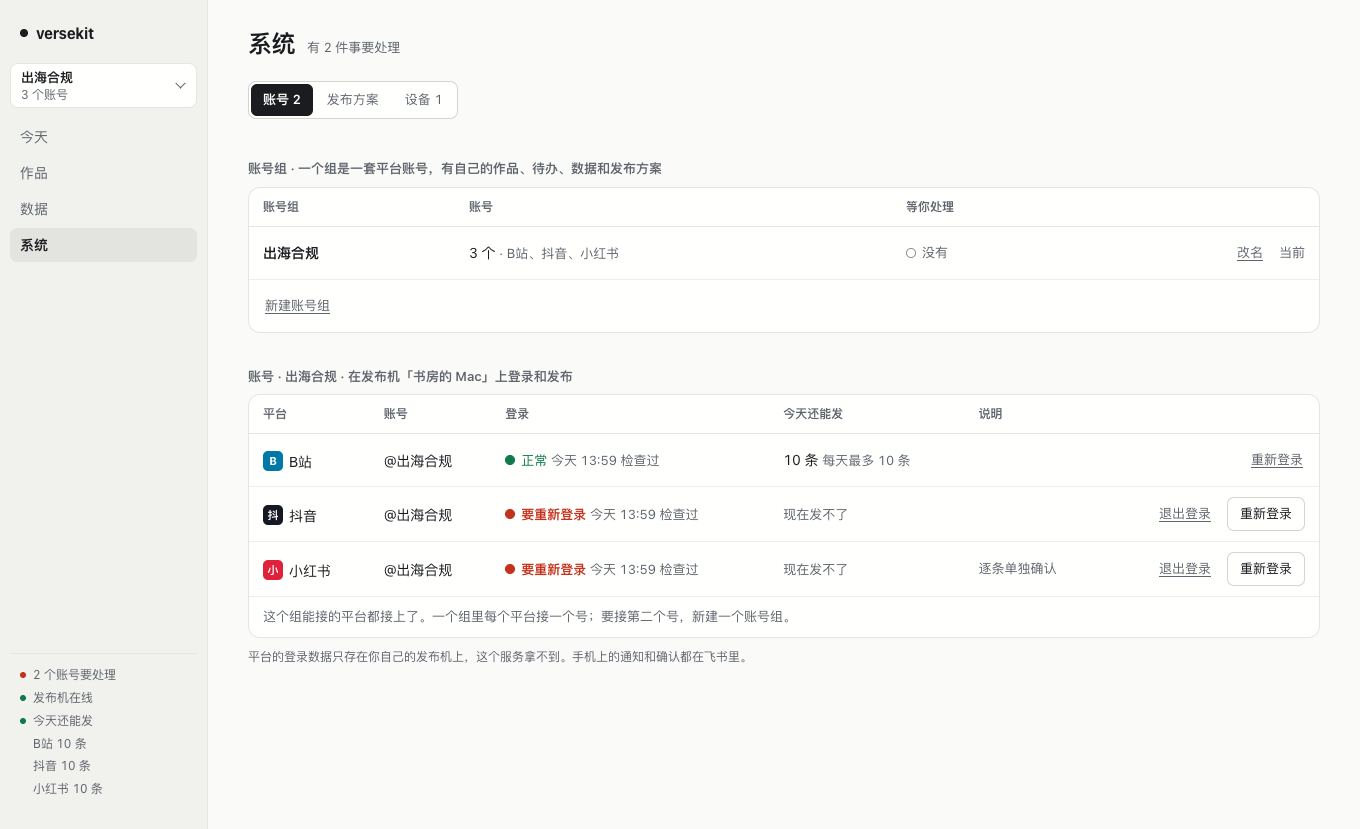
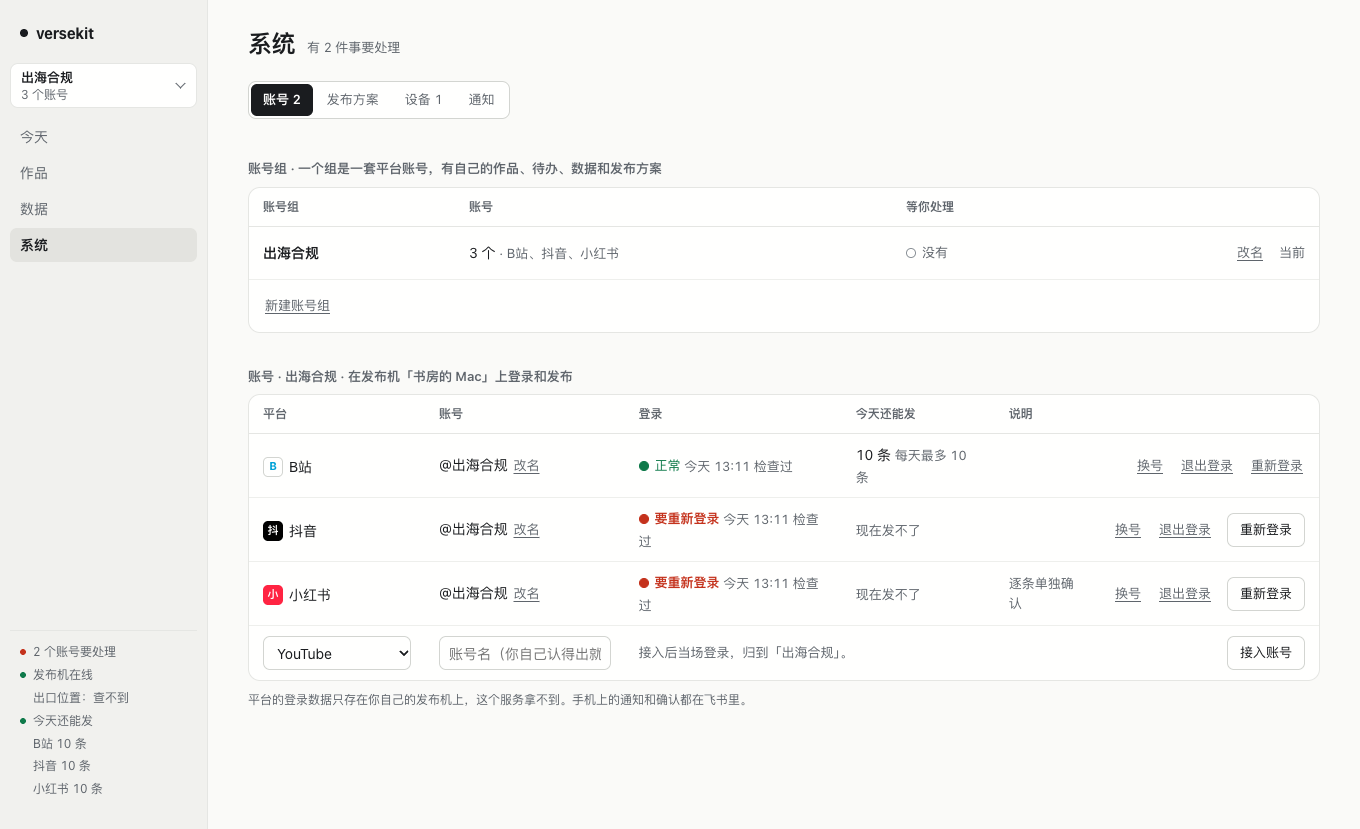
feat(cli): 每个平台都能换号，退出登录连平台凭据一起清（#376）
退出登录只删浏览器资料，B站 bili-<账号 id>.json 留着，退出后发布仍用旧号；
YouTube、TikTok 官方接口没有断开入口。现在退出登录与新命令 account.switch
共用同一套清理：浏览器资料 + 适配器的 logout()（B站凭据文件、官方接口授权令牌）
+ 清空账号行 credential_ref，状态变没连上。系统页每个账号行加「换号」，B站也有「退出登录」。

diff --git a/packages/web/public/system.html b/packages/web/public/system.html
@@ -82,7 +82,7 @@
   const labelOf = (p) => LABEL[p] ?? p;
   // 走官方接口的账号：先填应用凭证，再在新标签页授权；不靠发布机的浏览器资料（TikTok 官方接口、YouTube）。
   const OFFICIAL = { "tiktok-api": { name: "TikTok", idName: "client key", where: "TikTok 开发者后台里这个应用的凭证" }, youtube: { name: "YouTube", idName: "client id", where: "你自己在 Google Cloud 控制台里建的 OAuth 客户端的凭证" } };
-  const WEB_LOGIN = (p) => p !== "bilibili" && !OFFICIAL[p]; // 靠自己的浏览器资料保持登录的平台
+  const WEB_LOGIN = (p) => !OFFICIAL[p]; // 有「退出登录」的平台：浏览器资料（含 B站的凭据文件）都能清；官方接口平台用「换号」清授权令牌
   // 发布机能在后台替你取二维码、发短信验证码的平台；其余平台只有「在发布机上打开登录窗口」。
   const HEADLESS = new Set(["xiaohongshu"]);   // 能取二维码也能发短信
   const QR_ONLY = new Set(["shipinhao"]);      // 只能取二维码（视频号：用开通视频号的微信扫）
@@ -106,6 +106,9 @@
     // accountId → { step: qr | scanned | qrold | sms1 | sms2 | win | auth | fail, qr, text, masked }
     login: {},
     logoutAsk: null,      // 正在二次确认「退出登录」的账号 id
+    switchAsk: null,      // 正在二次确认「换号」的账号 id
+    switched: {},         // 换号后正在登录的账号：{ [id]: true }；登录成功后行内显示「已换成 <新号>」
+    switchedTo: {},       // 换号登录成功后的提示：{ [id]: "已换成 …" }
     credOpen: null,       // 展开「填应用凭证」的账号 id
     credsMissingIds: new Set(), // 后端明确说「没有应用凭证」的账号 id（平台清单可能晚一拍，别让状态盖回去）
     renaming: null, newGroup: false, newGroupName: "", groupBusy: false, groupNote: "",
@@ -238,6 +241,7 @@
     if (OFFICIAL[a.platform]) html = B(`data-login="${esc(a.id)}"`, connected(a) ? "重新授权" : `Connect ${OFFICIAL[a.platform].name}`, connected(a) ? "link" : "btn", dis);
     else if (st.key === "ok") html = (WEB_LOGIN(a.platform) ? B(`data-logout="${esc(a.id)}"`, "退出登录", "link") : "") + B(`data-login="${esc(a.id)}"`, "重新登录", "link", dis);
     else html = (WEB_LOGIN(a.platform) && st.key !== "down" ? B(`data-logout="${esc(a.id)}"`, "退出登录", "link") : "") + B(`data-login="${esc(a.id)}"`, st.key === "down" ? "登录" : "重新登录", "btn", dis);
+    html = B(`data-switch="${esc(a.id)}"`, "换号", "link", dis) + html;
     return `<span class="acts">${html}</span>${off ? `<div class="sub">${OFFLINE_SAY}</div>` : ""}`;
   }
 
@@ -251,7 +255,7 @@
     const box = (inner, cls = "") => `<div class="qr${cls ? ` ${cls}` : ""}">${inner}</div>`;
     switch (lg.step) {
       case "qr":
-        return subRow(6, `${box(lg.qr ? `<img src="${esc(lg.qr)}" alt="登录二维码">` : esc(lg.text || "正在取二维码…"))}<div class="how"><b>用${esc(pf)} App 扫这个码</b><span class="sub">二维码是发布机「${m}」取回来的，几分钟内有效。登录数据只存在那台电脑上，这个服务拿不到。${esc(qrHint(a.platform))}${lg.note ? ` ${esc(lg.note)}` : ""}</span>${alt(sms, win)}</div>`);
+        return subRow(6, `${box(lg.qr ? `<img src="${esc(lg.qr)}" alt="登录二维码">` : esc(lg.text || "正在取二维码…"))}<div class="how"><b>用${esc(pf)} App 扫这个码</b><span class="sub">二维码是发布机「${m}」取回来的，几分钟内有效。登录数据只存在那台电脑上，这个服务拿不到。${esc(qrHint(a.platform))}${ui.switched[a.id] ? " 换号：先在 App 里切到要接的号再扫。" : ""}${lg.note ? ` ${esc(lg.note)}` : ""}</span>${alt(sms, win)}</div>`);
       case "scanned":
         return subRow(6, `${box("已扫码")}<div class="how"><b>在手机上点「确认登录」</b><span class="sub">点完这里会自己变成正常，不用回来按什么。</span>${alt()}</div>`);
       case "qrold":
@@ -284,10 +288,13 @@
     const q = a.quota;
     const sendable = !lg && !credsMissing(a) && !credsUnknown(a) && !a.identityConflict && st.key === "ok";
     const quota = !q ? '<span class="sub">不限</span>' : sendable ? `${q.left} 条 <span class="sub">每天最多 ${q.cap} 条</span>` : '<span class="sub">现在发不了</span>';
+    const switchedNote = ui.switchedTo[a.id] ? ` <span class="sub" role="status">${esc(ui.switchedTo[a.id])}</span>` : "";
     const note = [NOTE[a.platform], a.mode === "manual" ? "仅手动跟踪" : ""].filter(Boolean).join("，");
 
     let sub = "";
-    if (ui.logoutAsk === a.id) {
+    if (ui.switchAsk === a.id) {
+      sub = subRow(6, `<p>会清掉这个号在发布机「${esc(machineName())}」上的登录数据（浏览器资料、平台凭据文件、官方接口授权令牌）；排着的内容留在这个账号位置上，换好后按新号发。</p><span class="acts">${B("data-switchno", "取消", "link")}${B(`data-switchyes="${esc(a.id)}"`, "换号并登录")}</span>`);
+    } else if (ui.logoutAsk === a.id) {
       sub = subRow(6, `<p>退出后会清掉这个账号在发布机「${esc(machineName())}」上的登录数据，要重新登录才能发；排着要发的这个账号的内容，退出后不会发。</p><span class="acts">${B("data-logoutno", "取消", "link")}${B(`data-logoutyes="${esc(a.id)}"`, "退出登录")}</span>`);
     // 缺凭证时，就算上一次 Connect 已经失败（lg.step = fail），也直接给填写的表单，不留红框死路。
     } else if ((credsMissing(a) || ui.credOpen === a.id) && (ui.credOpen === a.id || lg?.step === "fail")) {
@@ -302,7 +309,7 @@
     else if (a.identityConflict) {
       sub = subRow(6, `<p>${esc(a.identityConflict)}</p><span class="acts">${B(`data-logoutyes="${esc(a.id)}"`, "退出登录，换一个号")}</span>`, "bad");
     }
-    const row = `<tr${sub ? ' class="has-sub"' : ""} data-acc="${esc(a.id)}"><td>${pfn(a.platform)}</td><td class="acct">${who}</td><td>${statusCell(a, st, lg)}</td><td>${quota}</td><td class="sub">${esc(note)}</td><td class="n">${accountActions(a, st, lg)}</td></tr>`;
+    const row = `<tr${sub ? ' class="has-sub"' : ""} data-acc="${esc(a.id)}"><td>${pfn(a.platform)}</td><td class="acct">${who}${switchedNote}</td><td>${statusCell(a, st, lg)}</td><td>${quota}</td><td class="sub">${esc(note)}</td><td class="n">${accountActions(a, st, lg)}</td></tr>`;
     return row + sub;
   }
 
@@ -777,8 +784,16 @@
   async function succeed(id) {
     stopPoll(id);
     delete ui.login[id];
+    const swapped = ui.switched[id];
+    delete ui.switched[id];
     toast("登录正常");
     await refresh();
+    if (swapped) {
+      const a = acc(id);
+      ui.switchedTo[id] = `已换成 ${a?.display_name || a?.handle || "新号"}`;
+      toast(ui.switchedTo[id]);
+      draw();
+    }
   }
 
   /** account.check：适配器真实检查（B站走自己的续期检查）。只有 ok 才算登上。 */
@@ -1091,7 +1106,7 @@
     else if (id === "sms-code") { e.preventDefault(); main.querySelector("[data-smsgo]")?.click(); }
     else if (id === "relay-token") { e.preventDefault(); main.querySelector("[data-relaysave]")?.click(); }
   });
-  const CLICKABLE = "[data-tab],[data-sw],[data-login],[data-loginmode],[data-smssend],[data-smsresend],[data-smsgo],[data-done],[data-cancel],[data-add],[data-credopen],[data-credcancel],[data-credsave],[data-newg],[data-ngsave],[data-ngcancel],[data-accrename],[data-accrenamesave],[data-accrenamecancel],[data-rename],[data-renamesave],[data-renamecancel],[data-plan],[data-planadd],[data-plansave],[data-plancancel],[data-planremove],[data-planreset],[data-retry],[data-autoupd],[data-updnow],[data-updnoteok],[data-notes],[data-relayadd],[data-relaycancel],[data-relaysave],[data-relayask],[data-relayno],[data-relayoff],[data-logout],[data-logoutyes],[data-logoutno],[data-ctsave],[data-ipx],[data-fs]";
+  const CLICKABLE = "[data-tab],[data-sw],[data-login],[data-loginmode],[data-smssend],[data-smsresend],[data-smsgo],[data-done],[data-cancel],[data-add],[data-credopen],[data-credcancel],[data-credsave],[data-newg],[data-ngsave],[data-ngcancel],[data-accrename],[data-accrenamesave],[data-accrenamecancel],[data-rename],[data-renamesave],[data-renamecancel],[data-plan],[data-planadd],[data-plansave],[data-plancancel],[data-planremove],[data-planreset],[data-retry],[data-autoupd],[data-updnow],[data-updnoteok],[data-notes],[data-relayadd],[data-relaycancel],[data-relaysave],[data-relayask],[data-relayno],[data-relayoff],[data-logout],[data-logoutyes],[data-logoutno],[data-switch],[data-switchyes],[data-switchno],[data-ctsave],[data-ipx],[data-fs]";
   main.addEventListener("click", async (e) => {
     const b = e.target.closest(CLICKABLE);
     if (!b) return;
@@ -1103,11 +1118,23 @@
     } else if ("sw" in d) {
       e.preventDefault();
       try { await VK.useGroup(d.sw); location.reload(); } catch (err) { toast(`没切过去：${err.message}`); }
-    } else if (d.logout) { ui.logoutAsk = d.logout; draw(); }
+    } else if (d.switch) { ui.switchAsk = d.switch; ui.logoutAsk = null; draw(); }
+    else if ("switchno" in d) { ui.switchAsk = null; draw(); }
+    else if (d.switchyes) {
+      const id = d.switchyes;
+      ui.switchAsk = null; stopPoll(id); delete ui.login[id]; delete ui.switchedTo[id];
+      try {
+        await post(accPath(id, "switch"), { accountId: id });
+        ui.switched[id] = true;
+        toast("已清掉旧号的登录数据，现在登录要接的号");
+        await refresh();
+        await startLogin(id);
+      } catch (err) { toast(`没换成：${err.message}`); await refresh(); }
+    } else if (d.logout) { ui.logoutAsk = d.logout; ui.switchAsk = null; draw(); }
     else if ("logoutno" in d) { ui.logoutAsk = null; draw(); }
     else if (d.logoutyes) {
       const id = d.logoutyes;
-      ui.logoutAsk = null; stopPoll(id); delete ui.login[id];
+      ui.logoutAsk = null; stopPoll(id); delete ui.login[id]; delete ui.switched[id]; delete ui.switchedTo[id];
       try { await post(accPath(id, "logout"), { accountId: id }); toast("已退出登录，现在可以重新登录另一个号"); }
       catch (err) { toast(`没退出成功：${err.message}`); }
       await refresh();
